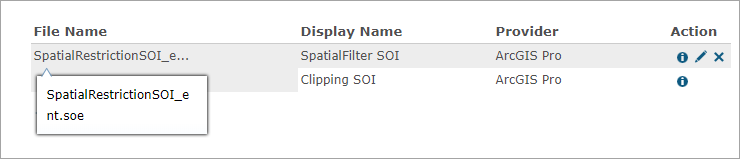
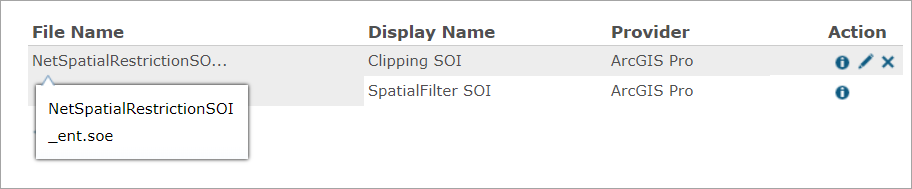
Update Sample

diff --git a/Samples/dot net/SOI/NetSpatialRestrictionSOI/ReadMe.md b/Samples/dot net/SOI/NetSpatialRestrictionSOI/ReadMe.md
@@ -8,7 +8,7 @@ This sample illustrates how to develop an SOI to apply certain spatial restricti
 
 >*Note* : This sample SOI is only applicable to map services published from ArcGIS Pro to a 10.8 or later versions of ArcGIS Server. See [what's new in the ArcGIS REST API at 10.8](https://developers.arcgis.com/rest/services-reference/what-s-new.htm).
 
-Deploying the SOI from the .soe file (`..\bin\Release\SpatialRestrictionSOI_ent.soe`) does not require you to open Visual Studio. However, you can load the project (`..\SpatialRestrictionSOI.csproj`) in Visual Studio to debug, modify, and recompile the SOI code.
+Deploying the SOI from the .soe file (`..\bin\Release\NetSpatialRestrictionSOI_ent.soe`) does not require you to open Visual Studio. However, you can load the project (`..\NetSpatialRestrictionSOI.csproj`) in Visual Studio to debug, modify, and recompile the SOI code.
 
 ## Features
 
@@ -26,7 +26,7 @@ This instruction uses the [USA map service](../../../ReadMe.md#1-usa-service) as
 1. Log in to ArcGIS Server Manager and click the ***Site*** tab.
 2. Click ***Extensions***.
 3. Click ***Add Extension***.
-4. Click ***Choose File*** and choose the ***SpatialRestrictionSOI_ent*** file (`..\bin\Release\SpatialRestrictionSOI_ent.soe` or `..\bin\Debug\SpatialRestrictionSOI_ent.soe`).
+4. Click ***Choose File*** and choose the ***NetSpatialRestrictionSOI_ent.soe*** file (`..\bin\Release\NetSpatialRestrictionSOI_ent.soe` or `..\bin\Debug\NetSpatialRestrictionSOI_ent.soe`).
 5. Click ***Add***.
 
    ![](../../../../images/netsp/NetSpatialRestrictSOI1.png "Spatial Restriction SOI")